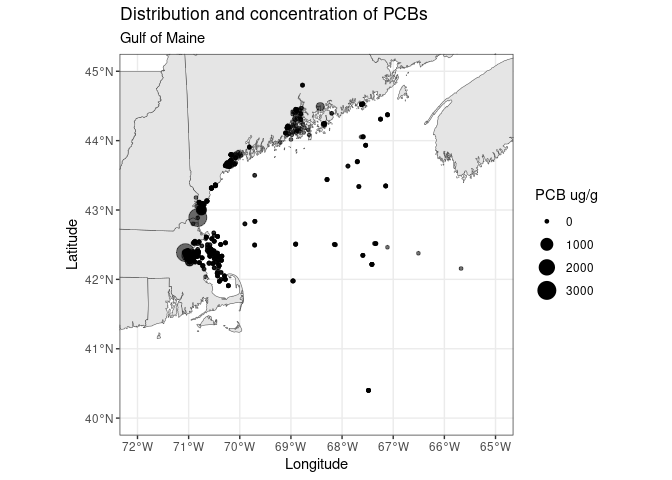
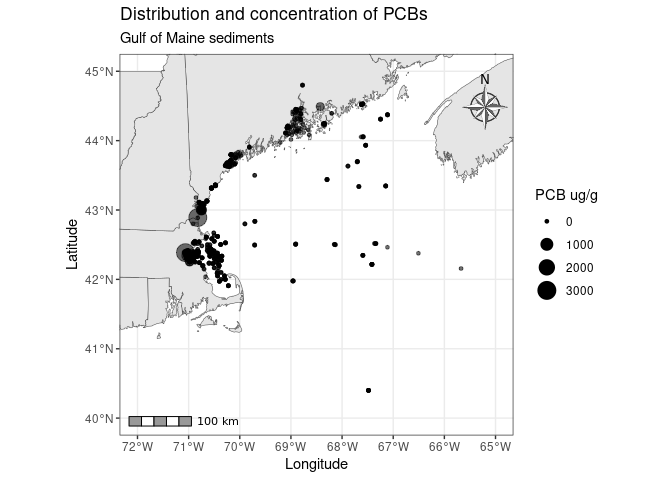
Add north arrow and scale bar to static map plot

Changed region(s): [[0.1875, 0.8438, 0.3438, 0.9062], [0.6875, 0.1562, 0.75, 0.25], [0.3125, 0.0625, 0.4062, 0.0938]]

diff --git a/analysis/PCBs.md b/analysis/PCBs.md
@@ -263,11 +263,23 @@ ggplot(GOM_states)+
   ylim(40,45)+
   theme_bw()+
   labs(title = "Distribution and concentration of PCBs",
-       subtitle ="Gulf of Maine",
+       subtitle ="Gulf of Maine sediments",
        x = "Longitude",
        y = "Latitude")+
   guides(size = guide_legend(title = "PCB ug/g"))+
-  guides(alpha = FALSE)
+  guides(alpha = FALSE)+
+  ggspatial::annotation_scale(
+    location = "bl",
+    bar_cols = c("grey60", "white"),
+    text_family = "ArcherPro Book"
+  ) +
+  ggspatial::annotation_north_arrow(
+    location = "tr", which_north = "true",
+    pad_x = unit(0, "in"), pad_y = unit(0.2, "in"),
+    style = ggspatial::north_arrow_nautical(
+      fill = c("grey40", "white"),
+      line_col = "grey20",
+      text_family = "ArcherPro Book"))
 ```
 
 ![](PCBs_files/figure-gfm/pcb-gom-map-plot-1.png)<!-- -->
@@ -289,3 +301,7 @@ ggplot(GOM_states)+
 #          zoom = 6) %>%
 #  addCircleMarkers(lng = ~LONGITUDE, lat = ~LATITUDE, popup = c(~SPECFC_LOC, #~PCB_T_UGG), label = labels)
 ```
+
+Note that the two above code chunks are commented out as .rmd will not
+knit to github document with html functions. Uncomment to run and change
+output type to `html_document` to knit.
